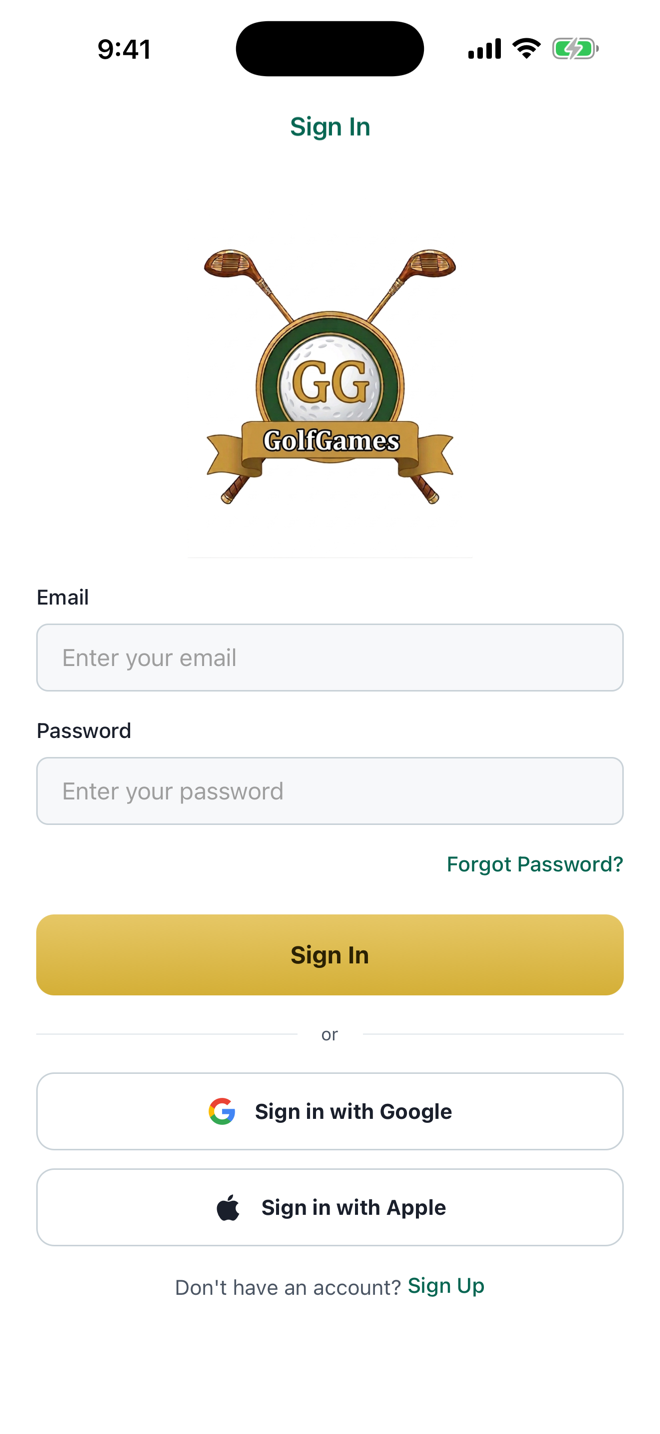
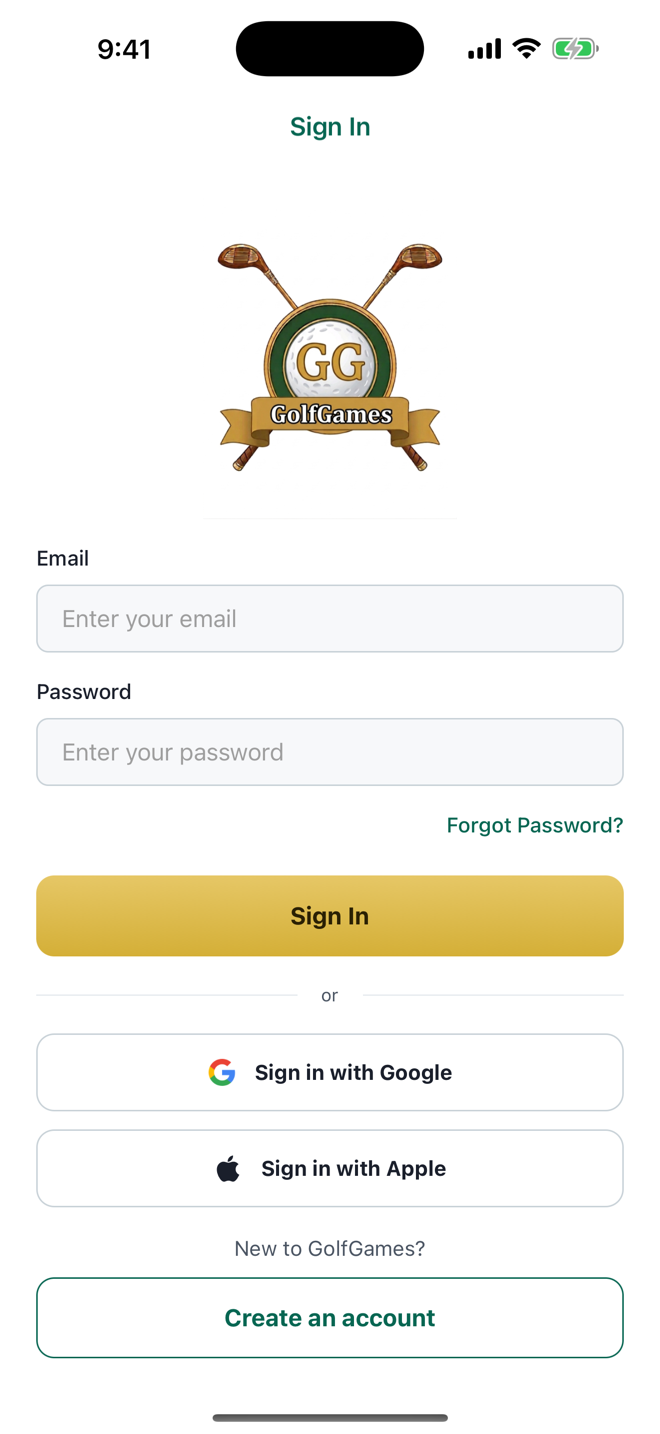
fix(manual): sign-in shows Create an account (GolfGames #1092, #1111)
Retakes sign-in.png from the merged build and points new users at Create an
account instead of the old Sign Up link.

Claude-Session: https://claude.ai/code/session_01HSCz6JruuWZDVEVmQJNaNP

diff --git a/manual/getting-started/index.html b/manual/getting-started/index.html
@@ -33,9 +33,9 @@
       <li><strong>Sign in with Apple</strong> (on iPhone; on Android it is shown only where Apple sign-in is available).</li>
     </ul>
     <p>Google and Apple create your account the first time you use them, so there is nothing else to fill in.</p>
-    <p>To create an account with your email instead, tap <strong>Sign Up</strong> at the bottom of the screen. Enter your full name, email and a password of at least 8 characters, then tap <strong>Create Account</strong>. We email you a confirmation link. Tap it to activate the account, then sign in.</p>
+    <p>To create an account with your email instead, tap <strong>Create an account</strong> under <em>New to GolfGames?</em> at the bottom of the screen. Enter your full name, email and a password of at least 8 characters, then tap <strong>Create Account</strong>. We email you a confirmation link. Tap it to activate the account, then sign in.</p>
     <div class="shots">
-      <figure><img src="/manual/img/getting-started/sign-in.png" alt="The Sign In screen with email and password fields, a Sign In button, and Sign in with Google and Sign in with Apple buttons" loading="lazy"><figcaption>Sign In</figcaption></figure>
+      <figure><img src="/manual/img/getting-started/sign-in.png" alt="The Sign In screen with email and password fields, a Sign In button, Sign in with Google and Sign in with Apple buttons, and a Create an account button" loading="lazy"><figcaption>Sign In</figcaption></figure>
       <figure><img src="/manual/img/getting-started/sign-up.png" alt="The Create Account screen with Full Name, Email, Password and Confirm Password fields" loading="lazy"><figcaption>Create Account</figcaption></figure>
     </div>
     <div class="tip"><strong>Forgot your password?</strong> Tap <strong>Forgot Password?</strong> on the Sign In screen. We email you a link to set a new one.</div>
